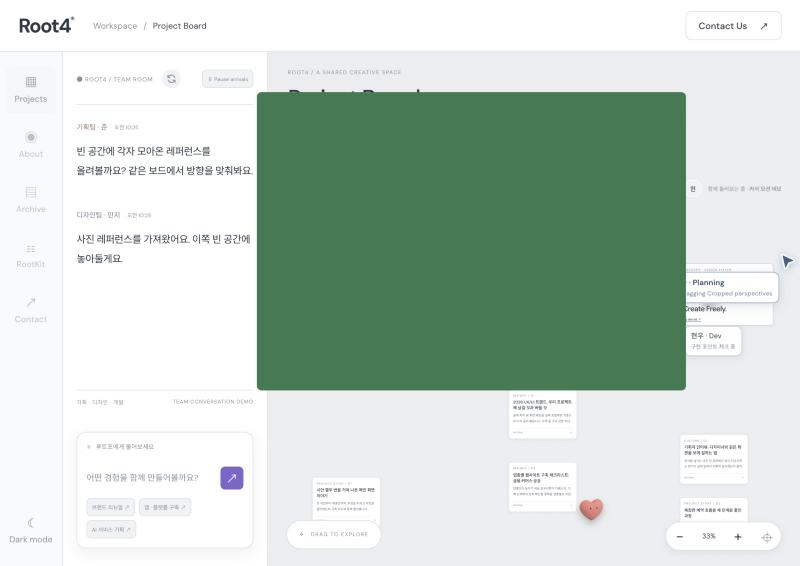
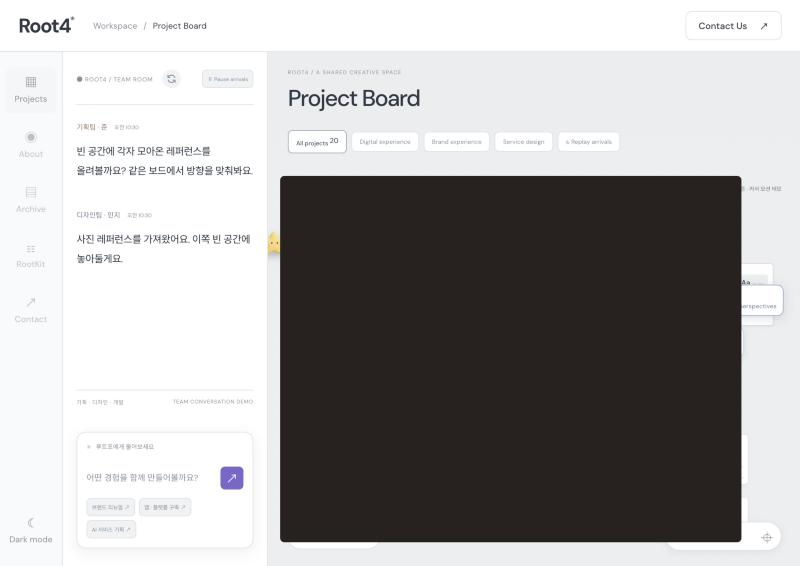
archive: 제작기 글의 프로젝트 상세 캡처를 어두운 바탕 프로젝트(09·13)로 교체
- 메뉴 썸네일·Visual 확대 장면·색 전환 순간: 09 Mood & expression
- 상세 넓은 캡처: 13 Hausa (Process 섹션)

diff --git a/archive/post/post.js b/archive/post/post.js
@@ -72,7 +72,7 @@
         { h: "메뉴마다 다른 참여 방식", p: [
           "다섯 개의 메뉴는 따로 떨어진 페이지가 아니라 한 스튜디오 안의 다른 공간입니다. 공간마다 방문자가 맡는 역할이 다릅니다.",
         ], list: [
-          ["Projects — 함께 들어가는 작업 공간", "팀의 대화를 따라 작업을 살펴보고, 관심 있는 프로젝트로 대화의 방향을 바꿉니다.", "detail-green.jpg"],
+          ["Projects — 함께 들어가는 작업 공간", "팀의 대화를 따라 작업을 살펴보고, 관심 있는 프로젝트로 대화의 방향을 바꿉니다.", "detail-overview.jpg"],
           ["About — 팀원과 만나는 스튜디오", "사람을 선택하고 질문하며 각자의 관점과 작업 방식을 알아갑니다.", "about.jpg"],
           ["Archive — 생각이 모이는 공동 보드", "팀이 남긴 기록을 탐색하고, 그 위에 자신의 반응과 생각을 더합니다.", "archive.jpg"],
           ["RootKit — 직접 만드는 컴포넌트 플레이그라운드", "루트포의 컴포넌트를 조립하고 배치하며 디자인 시스템을 직접 경험합니다.", "rootkit-playground.jpg"],
@@ -90,7 +90,7 @@
         ], after: [
           "보드를 끌어 둘러보면 팀원들의 커서와 대화가 함께 움직이고, RootKit에서는 값 몇 가지를 바꾸는 것만으로 결과가 얼마나 달라지는지 직접 확인할 수 있습니다. 둘러보는 행동 자체가 우리가 일하는 방식을 보여 주도록 했습니다.",
         ], end: [
-          { shot: "detail-red.jpg", cap: "프로젝트 상세 — 목차를 따라 프로젝트의 흐름을 읽습니다.", size: "wide" },
+          { shot: "detail-process.jpg", cap: "프로젝트 상세 — 목차를 따라 프로젝트의 흐름을 읽습니다.", size: "wide" },
         ]},
         { h: "브랜딩: 조용한 작업 공간과 보라 한 점", p: [
           "스튜디오는 조용해야 작업이 잘 보입니다. 회색 바탕 위에 흰 면을 얹고, 선은 가늘게 한 가지 회색만 썼습니다. 색은 거의 쓰지 않고, 강조는 보라 하나를 점과 선택 상태, 주요 버튼처럼 작게만 씁니다.",
